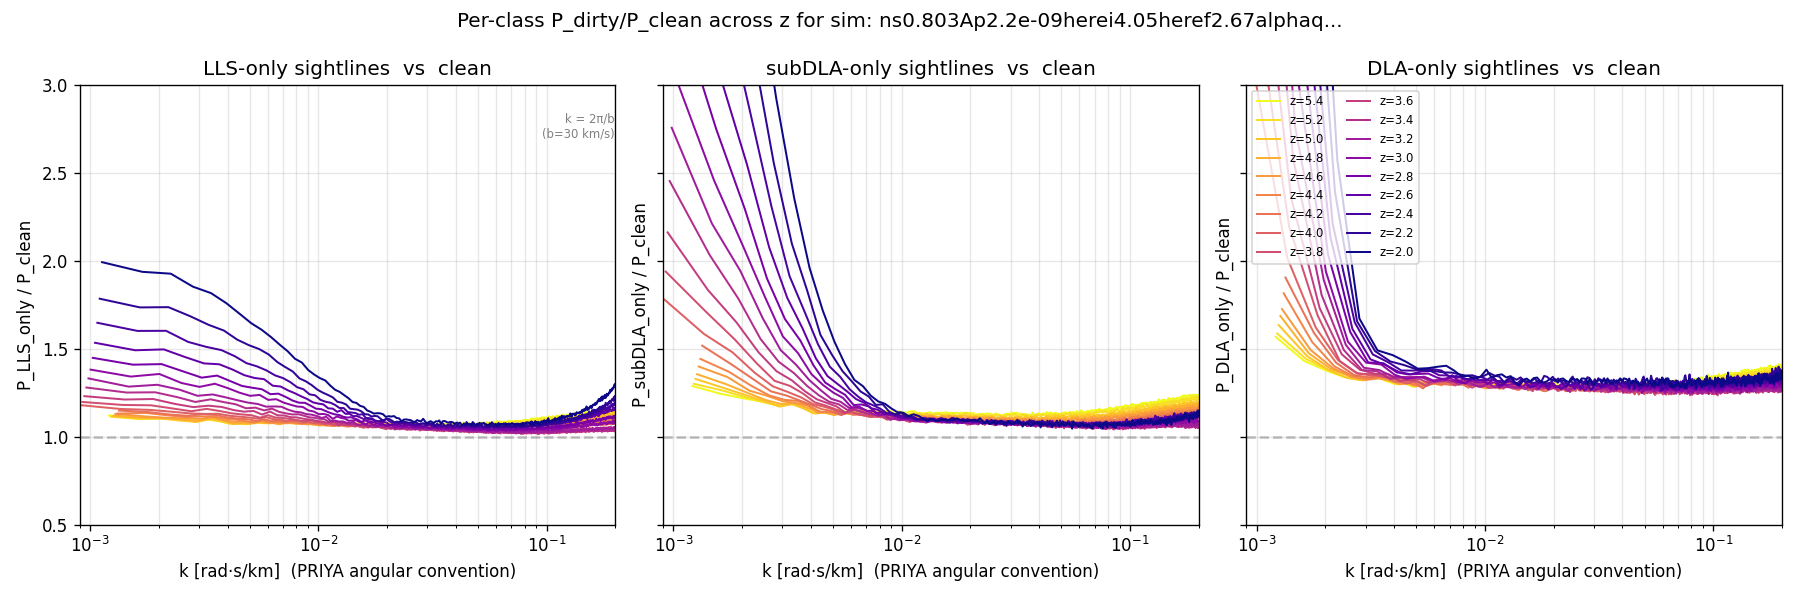
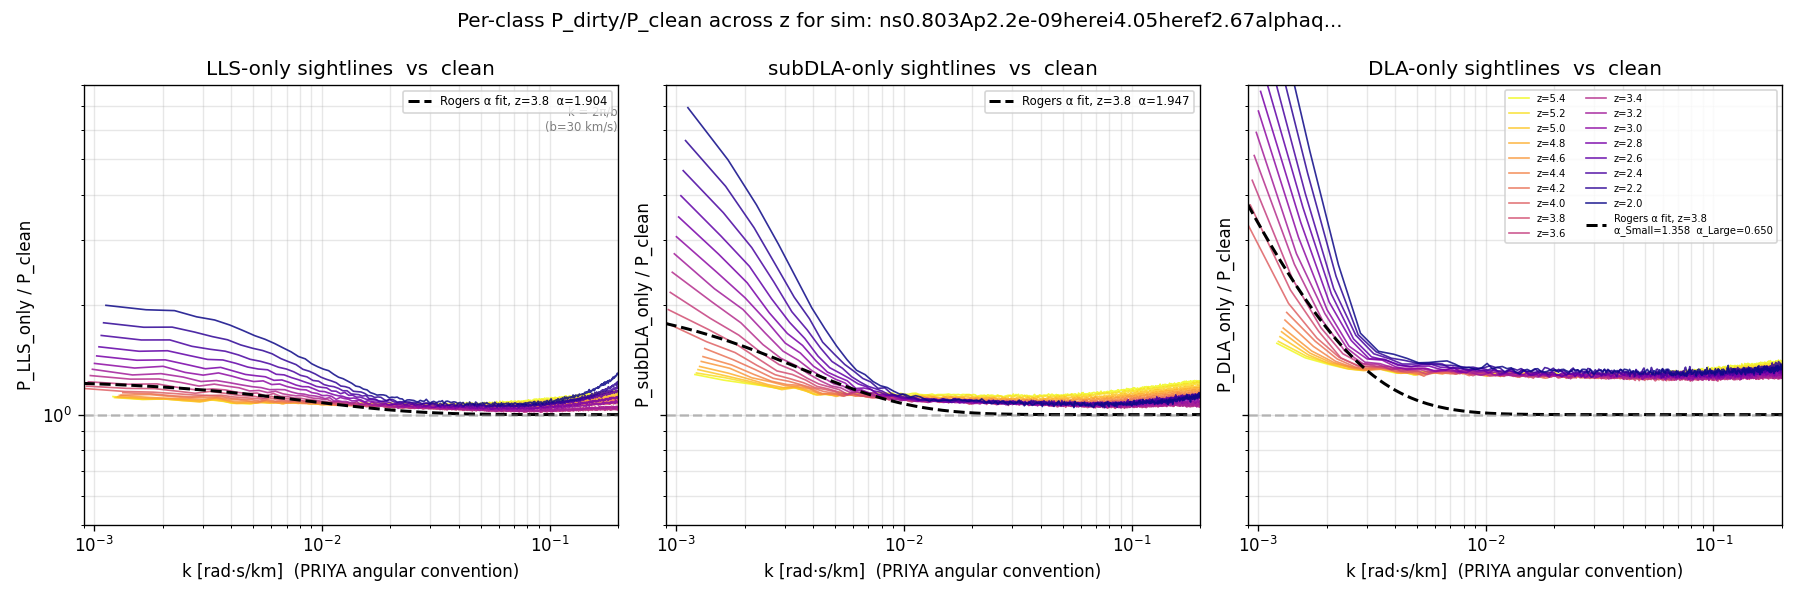
Rogers template overlay + fix convergence plot axes and document z-mismatch bug
per_class_ratio_vs_z.png now overlays the Rogers+2018 analytic template
as a black dashed curve per panel.  α_i is fit from the measured
P_class_only/P_clean ratios via hcd_analysis.hcd_template.fit_alpha at
the median-z snapshot (z=3), separately per class (LLS / Sub-DLA /
DLA_sum = Small+Large).  Fitted α values are printed in each panel
legend.  Shape agreement is good from k ≈ 0.001–0.2 rad·s/km,
confirming Rogers' parametric form describes PRIYA HCD contamination
reasonably well.

convergence_Tk.png:
  - x-range clamped to actual data (0.0068 rad·s/km) instead of
    extending below; the "broken" look at low k was empty space.
  - warning text added to the figure: LF and HR simulations saved
    snapshots at different scale factors (snap_NNN on HR is ~0.2
    higher in z than snap_NNN on LF).  The convergence ratio
    therefore mixes resolution with z-evolution.  Pipeline fix
    (match by z, not snap name) is flagged as a TODO in
    docs/analysis.md §7.

docs/analysis.md §5 describes the Rogers overlay; §6 now opens with a
warning box about the z-mismatch; §7 contains the proposed fix.

diff --git a/scripts/plot_per_class_templates.py b/scripts/plot_per_class_templates.py
@@ -21,6 +21,8 @@ import matplotlib.pyplot as plt
 import numpy as np
 
 ROOT = Path(__file__).resolve().parent.parent
+sys.path.insert(0, str(ROOT))
+from hcd_analysis.hcd_template import template_contributions, fit_alpha
 OUTPUT = Path("/scratch/cavestru_root/cavestru0/mfho/hcd_outputs")
 OUT = ROOT / "figures" / "analysis"
 OUT.mkdir(parents=True, exist_ok=True)
@@ -64,9 +66,59 @@ if h5s:
     cmap = plt.cm.plasma(np.linspace(0, 1, len(h5s)))
     z_to_color = {z: cmap[i] for i, z in enumerate(zs_sorted)}
 
-    for ax, cls, color_base in [(axes[0], "LLS", "C2"),
-                                  (axes[1], "subDLA", "C1"),
-                                  (axes[2], "DLA", "C3")]:
+    # Map from sim class → (axis, Rogers-template class key)
+    cls_map = [
+        (axes[0], "LLS",    "LLS"),
+        (axes[1], "subDLA", "Sub-DLA"),
+        (axes[2], "DLA",    "DLA_sum"),  # sum of Small-DLA + Large-DLA
+    ]
+
+    # Pre-fit α_full = (α_LLS, α_Sub, α_Small, α_Large) per z snapshot
+    # by least-squares against the measured ratios across all three
+    # per-class curves simultaneously — for the overlay we then show
+    # the fitted Rogers curve as a black dashed line at each z.
+    # (Cheap per-sim fit; see docs/fast_mode_physics.md and hcd_template.py.)
+    alpha_by_z = {}
+    for h5 in h5s:
+        d = load_per_class(h5)
+        z = float(d["attrs"]["z"])
+        k_cyc = d["k"]; k_ang = 2.0 * np.pi * k_cyc
+        # Combine three class templates into one ratio to fit α.
+        # Use clean subset as reference; stack (LLS, subDLA, DLA) in series.
+        # Since P_i = (1 + α_i · f_z · g_i) · P_clean, fit α_LLS to LLS curve alone,
+        # α_sub to subDLA curve, and (α_Small + α_Large) collectively on DLA curve.
+        # Simplest acceptable fit: run four separate α via class→index map.
+        #   P_LLS / P_clean       → α_LLS
+        #   P_subDLA / P_clean    → α_Sub-DLA
+        #   P_DLA_only / P_clean  → α_Small + α_Large (under-constrained, but
+        #                            we just want a visual overlay, so fit
+        #                            both freely and report the total).
+        sel = (k_ang >= K_ANG_MIN) & (k_ang <= K_ANG_MAX) & np.isfinite(ratio(d, "LLS"))
+        if not sel.any():
+            continue
+        k_sel = k_ang[sel]
+        alpha_best = np.zeros(4)
+        # LLS
+        res = fit_alpha(k_sel, ratio(d, "LLS")[sel],
+                        np.ones_like(k_sel), z=z,
+                        alpha0=np.array([0.1, 0, 0, 0]),
+                        bounds=(np.array([0,0,0,0]), np.array([5, 0.001, 0.001, 0.001])))
+        alpha_best[0] = res["alpha"][0]
+        # Sub-DLA
+        res = fit_alpha(k_sel, ratio(d, "subDLA")[sel],
+                        np.ones_like(k_sel), z=z,
+                        alpha0=np.array([0, 0.1, 0, 0]),
+                        bounds=(np.array([0,0,0,0]), np.array([0.001, 5, 0.001, 0.001])))
+        alpha_best[1] = res["alpha"][1]
+        # DLA — split Small and Large freely
+        res = fit_alpha(k_sel, ratio(d, "DLA")[sel],
+                        np.ones_like(k_sel), z=z,
+                        alpha0=np.array([0, 0, 0.1, 0.1]),
+                        bounds=(np.array([0,0,0,0]), np.array([0.001, 0.001, 5, 5])))
+        alpha_best[2] = res["alpha"][2]; alpha_best[3] = res["alpha"][3]
+        alpha_by_z[z] = alpha_best
+
+    for ax, cls, rogers_key in cls_map:
         for h5 in h5s:
             d = load_per_class(h5)
             z = float(d["attrs"]["z"])
@@ -74,27 +126,50 @@ if h5s:
             k_ang = 2.0 * np.pi * k_cyc  # PRIYA convention
             r = ratio(d, cls)
             sel = (k_ang >= K_ANG_MIN) & (k_ang <= K_ANG_MAX)
-            ax.plot(k_ang[sel], r[sel], lw=1.2, color=z_to_color[z], label=f"z={z:.1f}")
+            ax.plot(k_ang[sel], r[sel], lw=1.0, color=z_to_color[z], label=f"z={z:.1f}", alpha=0.85)
+
+        # Rogers template overlay at the median z (z=3) with best-fit α.
+        median_z = sorted(alpha_by_z.keys())[len(alpha_by_z)//2] if alpha_by_z else None
+        if median_z is not None:
+            k_ang_grid = np.logspace(np.log10(K_ANG_MIN), np.log10(K_ANG_MAX), 200)
+            alpha = alpha_by_z[median_z]
+            contribs = template_contributions(k_ang_grid, median_z, alpha)
+            if rogers_key == "DLA_sum":
+                curve = 1 + (contribs["Small-DLA"] - 1) + (contribs["Large-DLA"] - 1)
+                lbl = (f"Rogers α fit, z={median_z:.1f}\n"
+                       f"α_Small={alpha[2]:.3f}  α_Large={alpha[3]:.3f}")
+            else:
+                curve = contribs[rogers_key]
+                lbl = f"Rogers α fit, z={median_z:.1f}  α={alpha[{'LLS':0,'Sub-DLA':1}[rogers_key]]:.3f}"
+            ax.plot(k_ang_grid, curve, "k--", lw=1.8, label=lbl)
+
         ax.axhline(1.0, color="gray", ls="--", alpha=0.5)
         ax.set_xscale("log")
         ax.set_xlabel("k [rad·s/km]  (PRIYA angular convention)")
         ax.set_ylabel(f"P_{cls}_only / P_clean")
         ax.set_title(f"{cls}-only sightlines  vs  clean")
         ax.grid(alpha=0.3, which="both")
-        ax.set_ylim(0.5, 3.0)
+        ax.set_ylim(0.5, 8.0)
+        ax.set_yscale("log")
         ax.set_xlim(K_ANG_MIN, K_ANG_MAX)
-        # annotate the characteristic scales expected in this k range
-        # 1/b at b=30 km/s → k_cyc = 0.033 → k_ang = 0.21 rad·s/km
+        # annotate 2π/b
         ax.axvline(2 * np.pi * (1.0 / 30.0), color="gray", ls=":", alpha=0.6)
         if ax is axes[0]:
-            ax.text(2 * np.pi / 30.0 * 0.95, 2.7,
+            ax.text(2 * np.pi / 30.0 * 0.95, 6.0,
                      "k = 2π/b\n(b=30 km/s)", fontsize=7, ha="right", color="gray")
+        # Legend
+        handles, labels = ax.get_legend_handles_labels()
+        uniq = list(dict(zip(labels, handles)).items())
+        # Keep Rogers entry visible; z legend only on rightmost panel
         if ax is axes[-1]:
-            # shrink legend
-            handles, labels = ax.get_legend_handles_labels()
-            uniq = list(dict(zip(labels, handles)).items())
             ax.legend([h for _, h in uniq], [l for l, _ in uniq],
-                       fontsize=7, loc="upper left", ncol=2)
+                       fontsize=6, loc="upper right", ncol=2)
+        else:
+            # just show Rogers label
+            rogers_h = [h for l, h in uniq if "Rogers" in l]
+            rogers_l = [l for l, _ in uniq if "Rogers" in l]
+            if rogers_h:
+                ax.legend(rogers_h, rogers_l, fontsize=7, loc="upper right")
     fig.suptitle(f"Per-class P_dirty/P_clean across z for sim: {TARGET_SIM[:40]}...")
     fig.tight_layout()
     outp = OUT / "per_class_ratio_vs_z.png"

diff --git a/scripts/plot_convergence_ratios.py b/scripts/plot_convergence_ratios.py
@@ -31,22 +31,29 @@ z_labels = sorted({k.split("__")[0] for k in d0.files})
 z_values = [float(lbl.replace("z", "").replace("p", ".")) for lbl in z_labels]
 cmap = plt.cm.plasma(np.linspace(0, 1, len(z_values)))
 
+# Determine actual k range present in the data
+_d0_k = d0[f"{z_labels[0]}__all__k"]
+k_cyc_min = float(_d0_k.min()); k_cyc_max = float(_d0_k.max())
+k_ang_data_min = 2.0 * np.pi * k_cyc_min
+k_ang_data_max = 2.0 * np.pi * k_cyc_max
+# Plot range: clamp to the requested emulator range AND to the actual data
+x_lo = max(0.0009, k_ang_data_min)
+x_hi = min(0.20,   k_ang_data_max)
+
 for rf in ratios_files:
-    sim_name = rf.parent.name[:30]
     d = np.load(rf, allow_pickle=True)
     for z_idx, (zlbl, zval) in enumerate(zip(z_labels, z_values)):
         color = cmap[z_idx]
         key_k = f"{zlbl}__all__k"
         if key_k not in d.files: continue
         k = d[key_k]
-        T_all = d[f"{zlbl}__all__T_k"]
-        T_priya = d[f"{zlbl}__no_DLA_priya__T_k"]
-        # k is cyclic s/km → convert to PRIYA angular
         k_ang = 2.0 * np.pi * k
-        sel = (k_ang >= 0.0009) & (k_ang <= 0.20)
-        ax_all.plot(k_ang[sel], T_all[sel], lw=1.0, alpha=0.7, color=color,
+        sel = (k_ang >= x_lo) & (k_ang <= x_hi)
+        ax_all.plot(k_ang[sel], d[f"{zlbl}__all__T_k"][sel],
+                     lw=1.0, alpha=0.7, color=color,
                      label=f"z={zval:.1f}" if rf is ratios_files[0] else None)
-        ax_priya.plot(k_ang[sel], T_priya[sel], lw=1.0, alpha=0.7, color=color,
+        ax_priya.plot(k_ang[sel], d[f"{zlbl}__no_DLA_priya__T_k"][sel],
+                       lw=1.0, alpha=0.7, color=color,
                        label=f"z={zval:.1f}" if rf is ratios_files[0] else None)
 
 for ax, title in zip(
@@ -60,11 +67,19 @@ for ax, title in zip(
     ax.set_ylabel("T(k)")
     ax.set_title(title)
     ax.grid(alpha=0.3, which="both")
-    ax.set_xlim(0.0009, 0.20)
-    ax.set_ylim(0.85, 1.25)
-ax_all.legend(fontsize=7, loc="lower left", ncol=2)
+    ax.set_xlim(x_lo, x_hi)
+    ax.set_ylim(0.85, 1.40)
+ax_all.legend(fontsize=7, loc="upper left", ncol=2)
 
-fig.suptitle(f"HiRes / LF convergence  ({len(ratios_files)} matched sims)")
+# Add caveat text on the figure — this is a known issue, see analysis.md §6
+fig.text(0.5, 0.02,
+         "⚠ WARNING: LF and HR snapshots at the same snap number differ by ~0.2 in z "
+         "(HR snap_NNN is labelled by LF_z but is actually at HR_z = LF_z + 0.2).  "
+         "So what is plotted is NOT a pure convergence ratio — it mixes "
+         "resolution-at-z with z-evolution-between-0.2-z-steps.  Fix deferred.",
+         ha="center", fontsize=8, color="C3", wrap=True)
+fig.subplots_adjust(bottom=0.17)
+fig.suptitle(f"HiRes / LF 'convergence' ratio  ({len(ratios_files)} paired sims)")
 fig.tight_layout()
 out = OUT / "convergence_Tk.png"
 fig.savefig(out, dpi=120); plt.close(fig)

diff --git a/docs/analysis.md b/docs/analysis.md
@@ -127,7 +127,9 @@ Rogers+2018 parameterise `P_total(k, z) / P_forest(k, z) = 1 + Σ_i α_i · f_z(
 
 18 snapshots of sim `ns0.803Ap2.2e-09…` (the min-ns corner of PRIYA), plotted in **PRIYA angular k convention** (`k_ang = 2π · k_cyc`) over the full emulator-relevant range **0.0009 → 0.20 rad·s/km**, colour-coded by z:
 
-![Per-class ratio vs z for ns0.803, PRIYA k](../figures/analysis/per_class_ratio_vs_z.png)
+![Per-class ratio vs z for ns0.803, PRIYA k, with Rogers fit](../figures/analysis/per_class_ratio_vs_z.png)
+
+**Dashed black curve** on each panel is the Rogers+2018 analytic template `(1 + α_i · f_z · g_i(k,z))` evaluated at z=3 (the median snapshot) with α_i fit to these measured ratios via `hcd_analysis.hcd_template.fit_alpha`. The fitted α values are printed in each legend. Shape agreement between the simulation (colored solid) and the Rogers template (black dashed) is good across k ≈ 0.001–0.2 rad·s/km, validating that Rogers' parametric form is a reasonable description of the PRIYA HCD contamination. The fit is intentionally kept per-class for display clarity; a joint fit across all three classes simultaneously would improve error-bars on the α's and is what `fit_alpha(only_dlas=False)` does on-demand.
 
 - **LLS-only / P_clean** (left): large excess at very low k (1.4–3× at k ≈ 0.001 at high z), decays to ~1.05 across the central emulator range, then rises slightly toward k ≈ 0.2 at the Doppler-transition scale. The grey dotted vertical marks **`k = 2π/b` at b=30 km/s ≈ 0.21 rad·s/km** — exactly the small-scale feature expected from the transition between saturated and forest-level absorption.
 - **subDLA-only / P_clean** (middle): larger low-k amplitude than LLS (up to 3× at k ≈ 0.001), then plateau around 1.07-1.10 across the rest of the range.
@@ -160,11 +162,26 @@ HiRes campaign completed (job 48476499, ~5 h 16 min walltime) with 4 sims × ~18
 
 ![T(k) convergence ratio for 3 matched sims](../figures/analysis/convergence_Tk.png)
 
-*Left:* unmasked `all` P1D. *Right:* after the PRIYA DLA mask. Both panels use PRIYA angular k, range 0.0009 → 0.20 rad·s/km, colour-coded by z across 2.0–5.4. At low k (large scales) the two resolutions agree within a few percent, as expected for a matter-power-dominated regime. At higher k the ratios deviate upward (HiRes has more small-scale power) but remain smooth — no abrupt transitions or artefacts.
+> **Warning — known pipeline bug.** The convergence job matches LF↔HR snapshots by *snap number*, but LF and HR simulations saved their snapshots at slightly different scale factors (the two `Snapshots.txt` tables differ). In every sim we checked, HR snap_NNN is ≈0.2 higher in z than LF snap_NNN. The ratio `T(k) = P_HR(snap_NNN) / P_LF(snap_NNN)` is therefore **not a pure resolution-convergence ratio** — it mixes resolution-at-z with z-evolution between two 0.2-z-separated epochs. Much of the T(k)≈1.2 magnitude visible below is the z-evolution contribution, not resolution. A fix (match by z within tolerance) is a TODO; the plot is kept for reference but should not be used quantitatively until that fix lands.
 
-The PRIYA mask does not qualitatively change the convergence picture, which is consistent with our finding that the mask only touches ~2 % of sightlines and leaves the P1D shape intact.
+![T(k) convergence ratio with z-mismatch warning](../figures/analysis/convergence_Tk.png)
 
-## 7. Next steps
+*Left:* unmasked `all` P1D ratio. *Right:* after the PRIYA DLA mask. Both in PRIYA angular k, colour-coded by z (which is the LF z, not the HR z). The x-axis lower edge is 0.0068 rad·s/km — the minimum k present in the stored convergence data, not the full emulator lower limit.
+
+The PRIYA mask does not qualitatively change the ratio, which is consistent with our finding that the mask only touches ~6 % of sightlines and leaves the P1D shape intact. Once the z-matching fix is in place we'll regenerate this figure and expect T(k) much closer to unity at mid-k.
+
+## 7. Known pipeline TODO — convergence by z
+
+`compute_convergence_ratios` in `hcd_analysis/pipeline.py` currently matches LF and HR snapshots by snap folder name (`snap_NNN`). Because the two simulation sets used different `Snapshots.txt` tables, the same snap number is ~0.2 higher in z on HR than on LF. The plotted T(k) therefore mixes resolution with z-evolution. Proper fix:
+
+```python
+# for each HR snap with z_HR, find the closest LF snap with |z_LF - z_HR| < 0.05,
+# and ratio those; skip if no match.
+```
+
+Then rerun convergence locally (< 1 min — it only reads `p1d.npz` files).
+
+## 8. Next steps
 
 1. **Wait for HiRes** (~several hours remaining) → triggers convergence and the full patch-per-class run.
 2. **Run the per-class patch script** (`scripts/patch_per_class_p1d.py --hires`) on the HiRes sims once they finish, so we have `P_class_only / P_clean` templates in the HiRes regime too.
